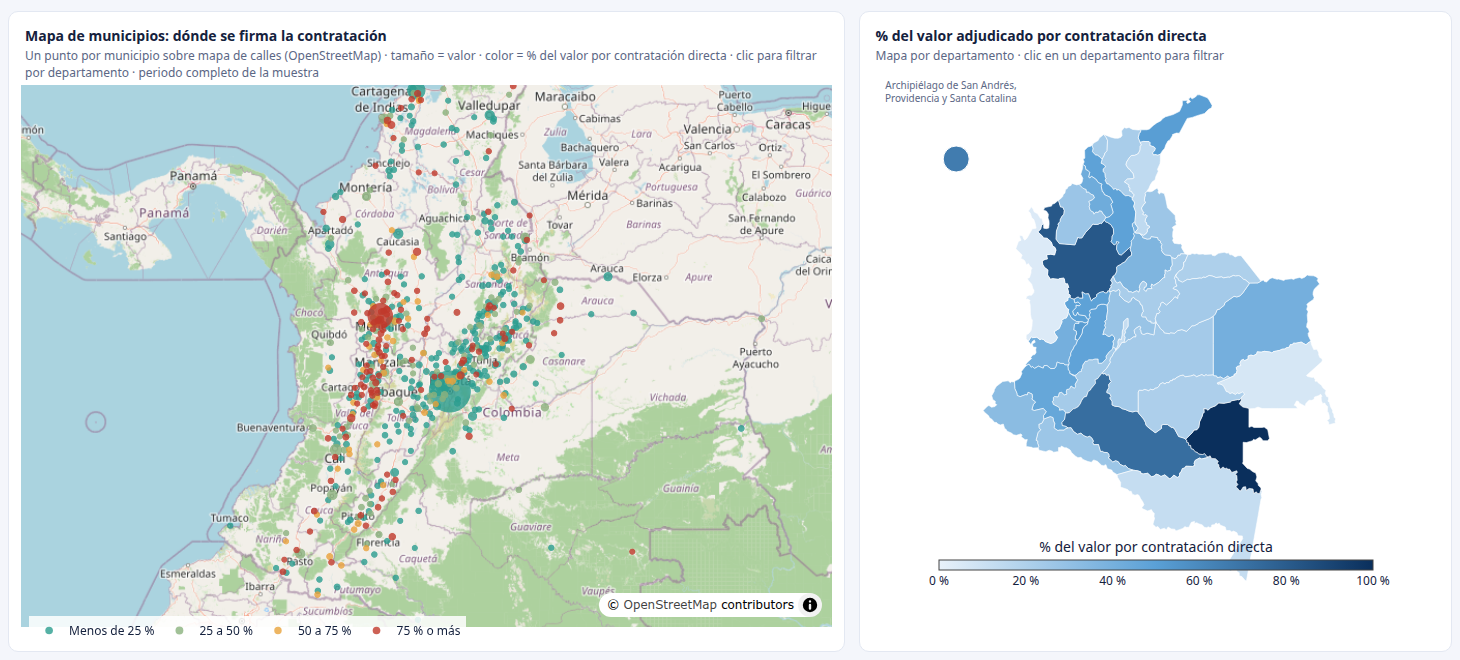
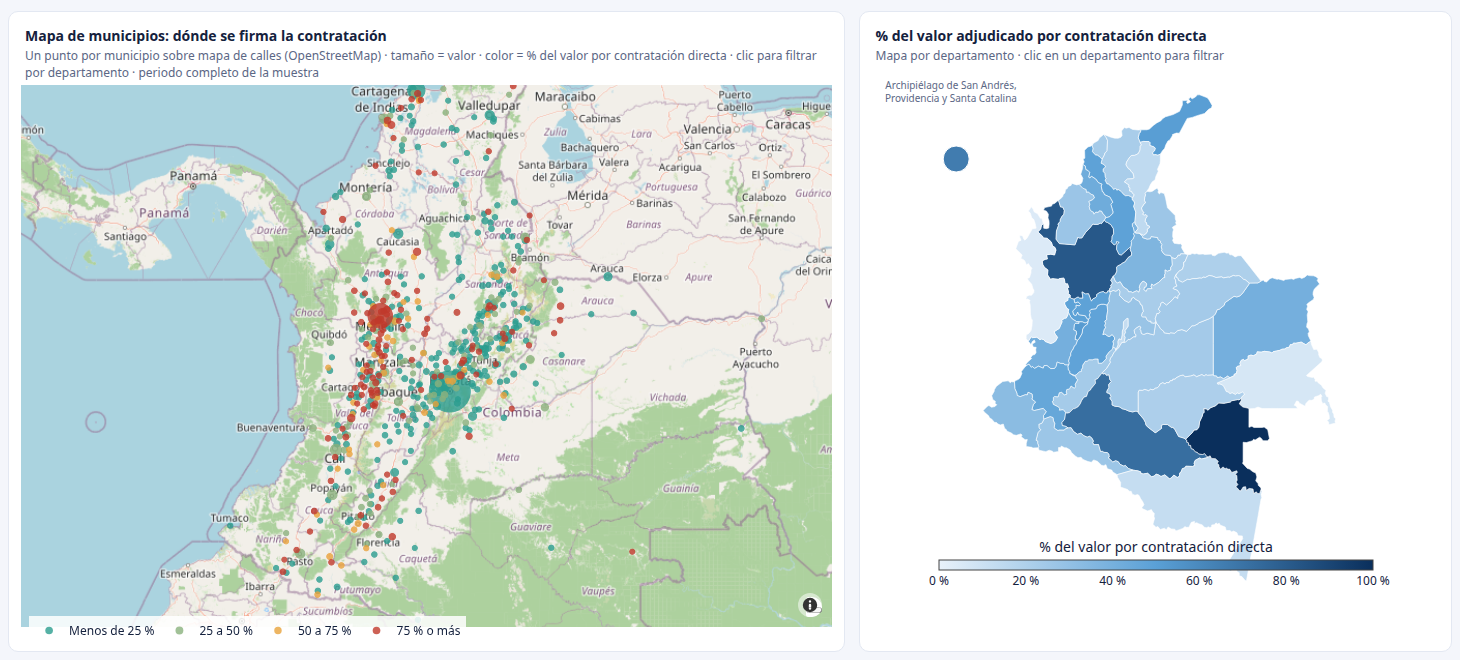
Mapa de municipios: volver a scattermapbox (scattermap no pintaba los puntos)

Changed region(s): [[0.4007, 0.8788, 0.5856, 0.9394]]

diff --git a/dashboard/plantilla.html b/dashboard/plantilla.html
@@ -164,12 +164,12 @@ function renderMpio(){
   const bins=[["Menos de 25 %",0,25,"#2a9d8f"],["25 a 50 %",25,50,"#8ab17d"],["50 a 75 %",50,75,"#e9a23b"],["75 % o más",75,101,"#c0392b"]];
   const base=D.municipios.filter(m=>S.dep==="Todos"||m.departamento===S.dep), maxV=d3.max(D.municipios,m=>m.valor_total);
   const traces=bins.map(([name,lo,hi,col])=>{const r=base.filter(m=>m.pct_valor_directa>=lo&&m.pct_valor_directa<hi);
-    return {type:"scattermap",mode:"markers",name,lat:r.map(m=>m.lat),lon:r.map(m=>m.lon),
+    return {type:"scattermapbox",mode:"markers",name,lat:r.map(m=>m.lat),lon:r.map(m=>m.lon),
       marker:{size:r.map(m=>7+36*Math.sqrt(m.valor_total/maxV)),color:col,opacity:.8},
       customdata:r.map(m=>[m.mpio,m.departamento,m.contratos,cop(m.valor_total),m.pct_valor_directa]),
       hovertemplate:"<b>%{customdata[0]}</b> · %{customdata[1]}<br>Contratos: %{customdata[2]:,}<br>Valor: %{customdata[3]}<br>% valor directa: %{customdata[4]:.1f} %<extra></extra>"};});
   const c=(S.dep!=="Todos"&&base.length)?{lat:d3.mean(base,m=>m.lat),lon:d3.mean(base,m=>m.lon)}:{lat:5.4,lon:-74.6};
-  Plotly.react("mpio",traces,{...L,margin:{l:0,r:0,t:0,b:0},uirevision:S.dep,map:{style:"open-street-map",center:c,zoom:(S.dep!=="Todos"&&base.length)?7:5.05},
+  Plotly.react("mpio",traces,{...L,margin:{l:0,r:0,t:0,b:0},uirevision:S.dep,mapbox:{style:"open-street-map",center:c,zoom:(S.dep!=="Todos"&&base.length)?7:5.05},
     legend:{orientation:"h",x:.01,y:.02,bgcolor:"rgba(255,255,255,.85)",font:{size:12}}},cfg);
 }
 let bound=false;

diff --git a/docs/index.html b/docs/index.html
@@ -164,12 +164,12 @@ function renderMpio(){
   const bins=[["Menos de 25 %",0,25,"#2a9d8f"],["25 a 50 %",25,50,"#8ab17d"],["50 a 75 %",50,75,"#e9a23b"],["75 % o más",75,101,"#c0392b"]];
   const base=D.municipios.filter(m=>S.dep==="Todos"||m.departamento===S.dep), maxV=d3.max(D.municipios,m=>m.valor_total);
   const traces=bins.map(([name,lo,hi,col])=>{const r=base.filter(m=>m.pct_valor_directa>=lo&&m.pct_valor_directa<hi);
-    return {type:"scattermap",mode:"markers",name,lat:r.map(m=>m.lat),lon:r.map(m=>m.lon),
+    return {type:"scattermapbox",mode:"markers",name,lat:r.map(m=>m.lat),lon:r.map(m=>m.lon),
       marker:{size:r.map(m=>7+36*Math.sqrt(m.valor_total/maxV)),color:col,opacity:.8},
       customdata:r.map(m=>[m.mpio,m.departamento,m.contratos,cop(m.valor_total),m.pct_valor_directa]),
       hovertemplate:"<b>%{customdata[0]}</b> · %{customdata[1]}<br>Contratos: %{customdata[2]:,}<br>Valor: %{customdata[3]}<br>% valor directa: %{customdata[4]:.1f} %<extra></extra>"};});
   const c=(S.dep!=="Todos"&&base.length)?{lat:d3.mean(base,m=>m.lat),lon:d3.mean(base,m=>m.lon)}:{lat:5.4,lon:-74.6};
-  Plotly.react("mpio",traces,{...L,margin:{l:0,r:0,t:0,b:0},uirevision:S.dep,map:{style:"open-street-map",center:c,zoom:(S.dep!=="Todos"&&base.length)?7:5.05},
+  Plotly.react("mpio",traces,{...L,margin:{l:0,r:0,t:0,b:0},uirevision:S.dep,mapbox:{style:"open-street-map",center:c,zoom:(S.dep!=="Todos"&&base.length)?7:5.05},
     legend:{orientation:"h",x:.01,y:.02,bgcolor:"rgba(255,255,255,.85)",font:{size:12}}},cfg);
 }
 let bound=false;
